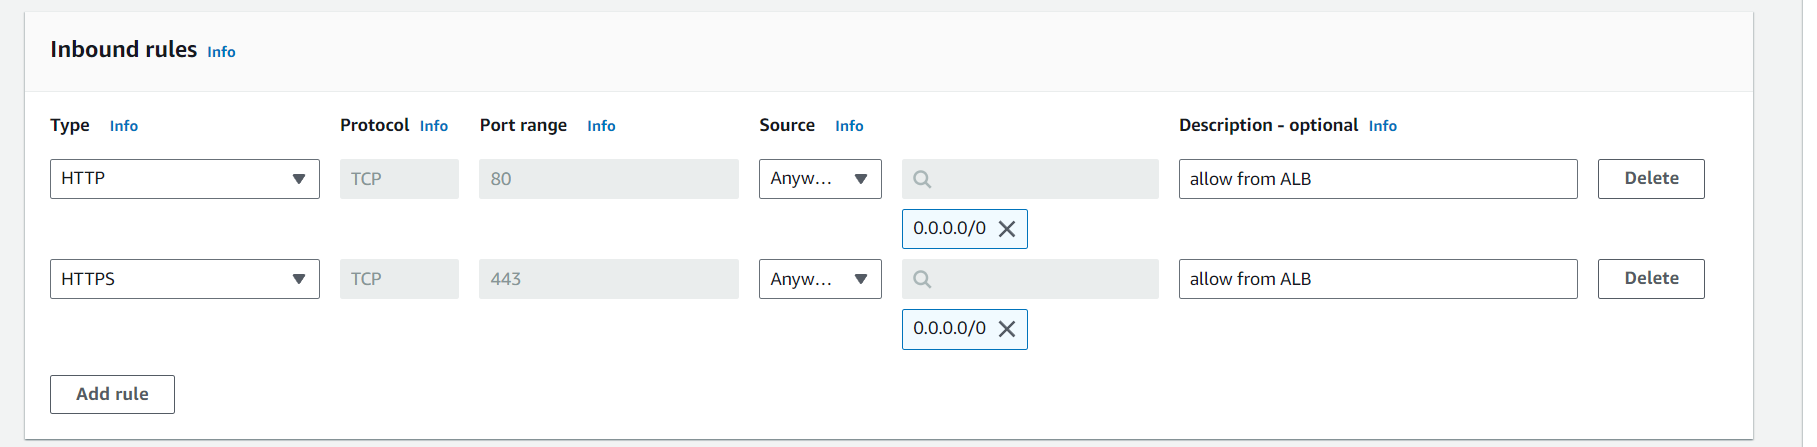
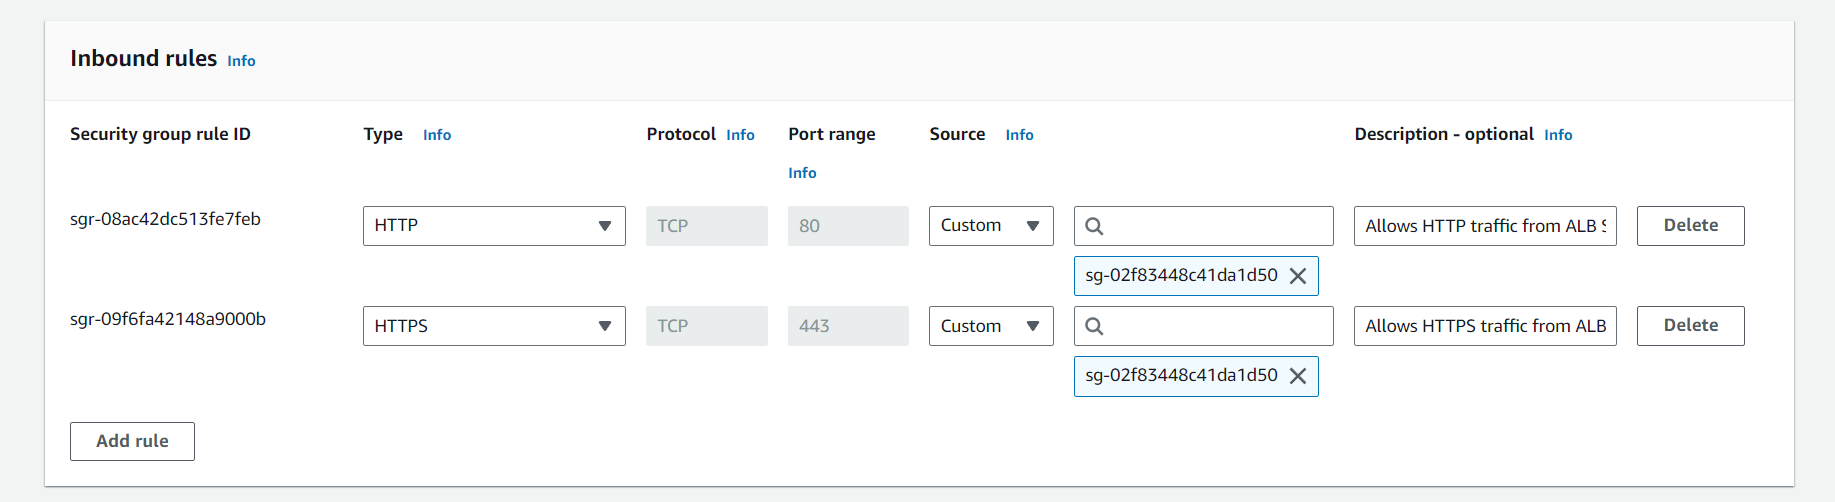
updated

diff --git a/README.md b/README.md
@@ -194,7 +194,7 @@ Edit the route in the public route table and associate it with the Internet Gate
 ![](./images/31.png)
 
 
-Create 3 Elastic IPs: one Elastic IP will be assigned to the NAT Gateway, while the other two will be allocated to the Bastion hosts.
+__Create 3 Elastic IPs:__ one Elastic IP will be assigned to the NAT Gateway, while the other two will be allocated to the Bastion hosts.
 
 
 
@@ -237,22 +237,14 @@ Modify the route in the private route table to associate it with the NAT Gateway
 
 __Create Security Group for NGINX Servers:__ Access to Nginx should be allowed only from the Application Load Balancer (ALB).
 
-![](./images/50.png)
-
-
-__Create Security Group for Application Load Balancer (ALB):__ Application Load Balancer (ALB) access should be allowed from the Internet.
-
-
 
 ![](./images/41.png)
 
-![](./images/42.png)
+![](./images/50.png)
+
+![](./images/51.png)
 
 
-![](./images/43.png)
-
-
-![](./images/44.png)
 
 
 
@@ -277,13 +269,22 @@ Therefore, you can use the public IP address of your workstation.
 
 
 
-Create a security group for the Application Load Balancer that permits access solely from the internet.
+__Create Security Group for Application Load Balancer (ALB):__ Application Load Balancer (ALB) access should be allowed from the Internet.
 
 
-![](./images/47.png)
+
+![](./images/42.png)
 
 
-__Create Security Group for Web Servers:__ Access to Web Servers should only be allowed from NGINX servers and SSH from bastion host
+![](./images/43.png)
+
+
+![](./images/44.png)
+
+
+
+
+__Create Security Group for Web Servers:__ Access to Web Servers should only be allowed from NGINX servers and bastion host
 
 
 
@@ -296,19 +297,7 @@ __Create Security Group for Web Servers:__ Access to Web Servers should only be 
 
 
 
-
-Create security group for the internal ALB - allow access to only nginx reverse proxy.
-
-
-![](./images/52.png)
-
-
-![](./images/53.png)
-
-
-
-
-create a security group for your backend services (such as RDS and EFS) that allows access from the web servers and the bastion host
+__Create Security Group for Data Layer (RDS and EFS):__ Access to RDS and EFS should be allowed only from Web Servers (for RDS) and from NGINX and Web Servers (for EFS)
 
 
 
@@ -318,8 +307,11 @@ create a security group for your backend services (such as RDS and EFS) that all
 ![](./images/55.png)
 
 
+![](./images/61.png)
 
-Purchase a domain name and Create an ACM certificate
+
+
+__Purchase a domain name and Create an ACM certificate__
 
 
 ![](./images/4.png)
@@ -339,7 +331,7 @@ Purchase a domain name and Create an ACM certificate
 
 
 
-Create DNS records for both the Tooling and WordPress sites.
+__Create DNS records for both the `Tooling` and `WordPress` sites.__
 
 
 
